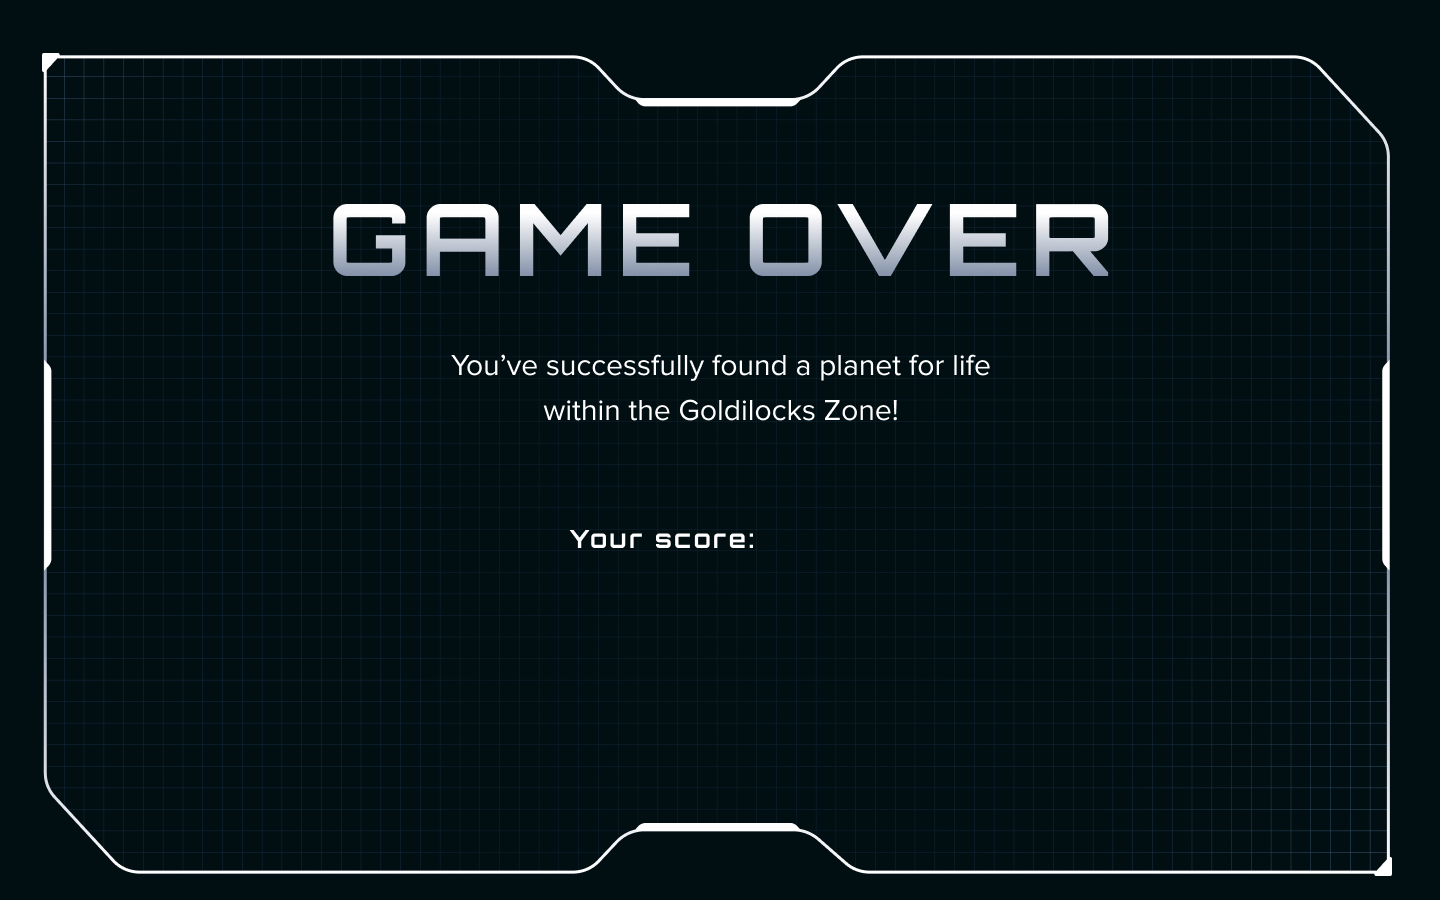
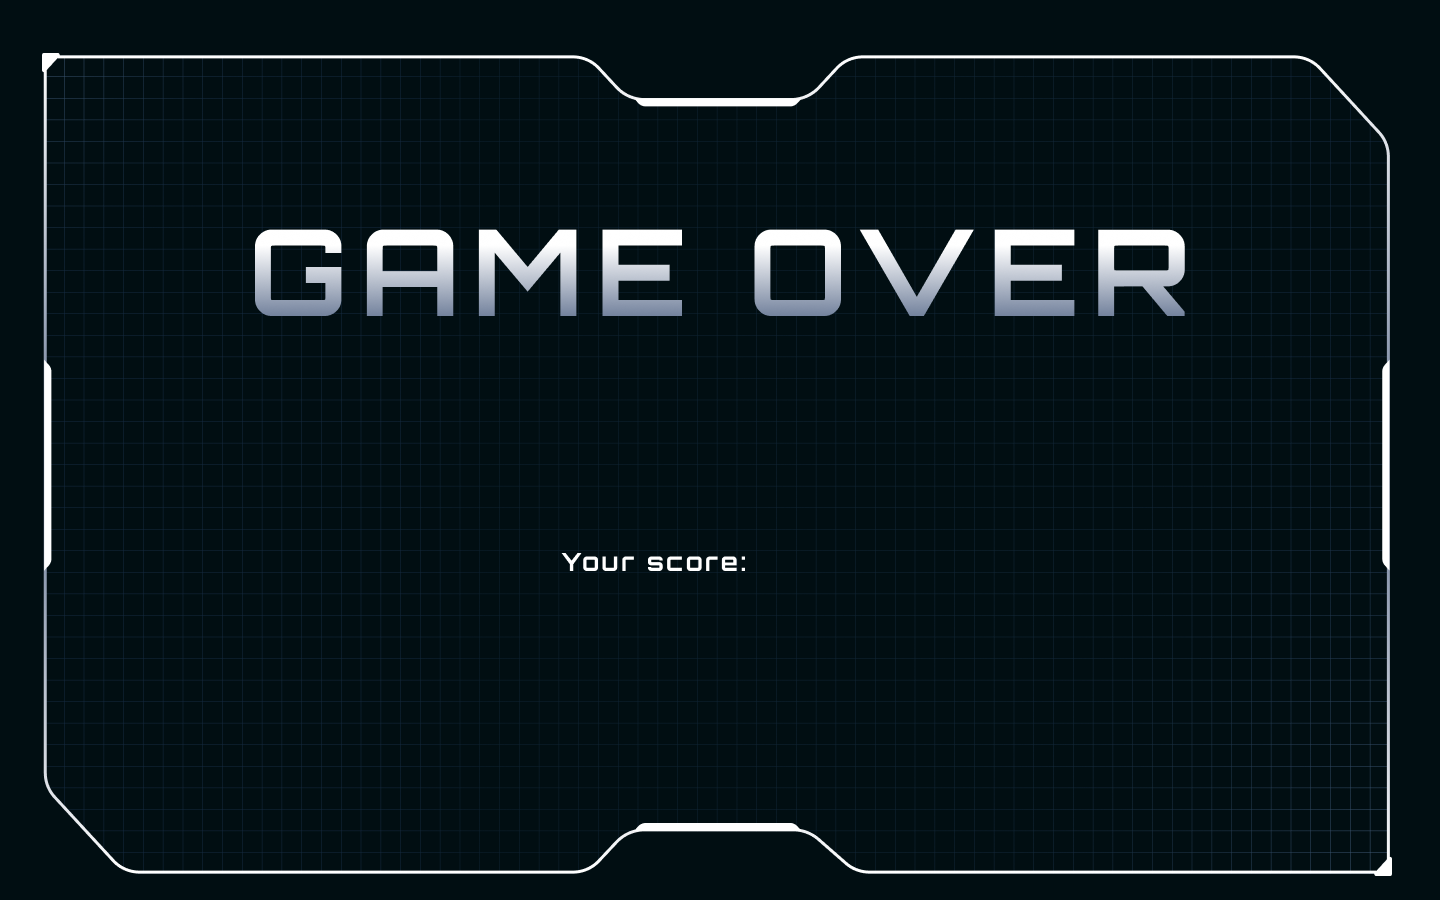
made buttons responsive

Changed region(s): [[0.1562, 0.2178, 0.8438, 0.3733], [0.3125, 0.3733, 0.6875, 0.4667], [0.375, 0.5911, 0.5312, 0.6533]]

diff --git a/src.js b/src.js
@@ -141,7 +141,7 @@ const Draw = () => {
         const GOscreen = new Image();
         GOscreen.src = 'assets/gameover.png';
         ctx.drawImage(GOscreen,0,0,c.width,c.height);
-        DrawText(ctx, c.width / 1.873, c.height / 1.637, 'Orbitron', 'normal', c.width / 66.206, 'white', score);  // display score
+        DrawText(ctx, c.width / 1.873, c.height / 1.57, 'Orbitron', 'normal', c.width / 66.206, 'white', score);  // display score
         button.style.visibility ='hidden';
         button2.style.visibility = 'visible';
     }

diff --git a/helios.html b/helios.html
@@ -25,10 +25,10 @@
 #scan{
     position: absolute;
     z-index: 3;
-    top: 37vw;
-    left: 83.5vw;
+    bottom: 4.2%;
+    right: 4.2%;
     opacity: 1;
-    width: 12%;
+    width: 13%;
 }
 
 #scan:hover{
@@ -38,7 +38,7 @@
 #gameover{
     position: absolute;
     z-index: 3;
-    top: 34vw;
+    top: 70vh;
     left: 37vw;
     opacity: 1;
     width: 25%;
